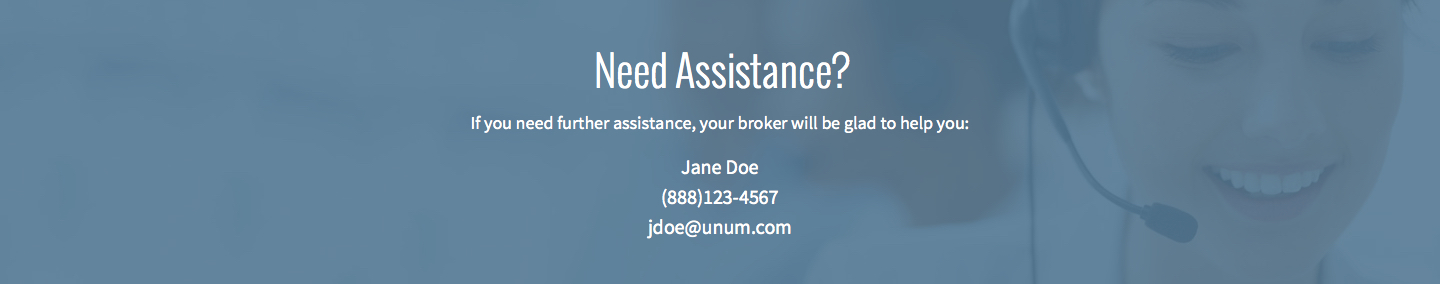
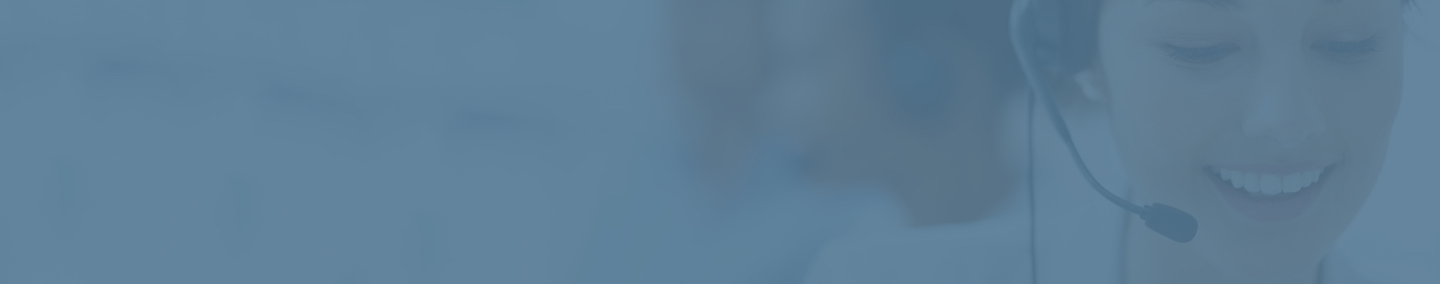
Changes second page

diff --git a/app/scss/_options.scss b/app/scss/_options.scss
@@ -1,6 +1,6 @@
 .options {
 	background: url('../img/options_mobile.jpg') no-repeat $steel-blue;
-	backgroun-size:cover;
+	background-size:cover;
 	color:#fff;
 	padding:2em 0 2.5em;
 	margin:2em 0;
@@ -8,6 +8,10 @@
 
 	h2, h3 {
 		color: #fff;
+	}
+
+	@media (min-width:680px) {
+		background: url('../img/options_desktop.jpg') no-repeat; 
 	}
 }
 
@@ -47,6 +51,32 @@
 		line-height: 1;
 		padding: 3.3em 0px 0px;
 		width: 33%;
+	}
+
+	@media (min-width: 680px) {
+		display: -ms-flexbox;
+    	display: -webkit-flex;
+    	display: flex;
+	    -webkit-flex-direction: row;
+	    -ms-flex-direction: row;
+	    flex-direction: row;
+	    -webkit-flex-wrap: nowrap;
+	    -ms-flex-wrap: nowrap;
+	    flex-wrap: nowrap;
+	    -webkit-justify-content: center;
+	    -ms-flex-pack: center;
+	    justify-content: center;
+	    -webkit-align-content: center;
+	    -ms-flex-line-pack: center;
+	    align-content: center;
+	    -webkit-align-items: flex-start;
+	    -ms-flex-align: start;
+	    align-items: flex-start;
+
+	    li {
+	    	padding:3.3em 1em 0;
+	    	width:auto;
+	    }
 	}
 }
 

diff --git a/app/scss/_assistance.scss b/app/scss/_assistance.scss
@@ -1,10 +1,11 @@
 .assistance {
 	background: url('../img/assistance_mobile.jpg') no-repeat;
+	background-size:cover;
 	color: #fff;
-	padding:2em 0;
+	padding:2.4em 0;
 	text-align:center;
 
-	h1 {
+	h2 {
 		color: #fff;
 		margin-bottom:.8rem;
 	}
@@ -21,5 +22,10 @@
 		li {
 			margin:0 0 .4rem;
 		}
+	}
+
+	@media (min-width:680px) {
+		//background-image: url('../img/assistance_desktop.jpg');
+		background: url('../img/assistance_desktop.jpg') no-repeat;
 	}
 }

diff --git a/app/second.html b/app/second.html
@@ -136,6 +136,14 @@ j=d.createElement(s),dl=l!='dataLayer'?'&l='+l:'';j.async=true;j.src=
 			</section>
 		</div>
 		<div class="row">
+			<section class="survey-results">
+				<div class="contain">
+					<h2>98% of employees agree:</h2>
+					<h3>It's important to have a benefits counseling session annually.</h3>
+				</div>
+			</section>
+		</div>
+		<div class="row">
 			<section class="assistance">
 				<div class="contain">
 					<h2>Need Assistance?</h2>

diff --git a/app/scss/_callout.scss b/app/scss/_callout.scss
@@ -16,7 +16,7 @@
 
 	@media (min-width:680px) {
 		background: rgba($steel-blue, .6);
-		width: 420px;
+		width: 450px;
 		float:left;
 		margin:-300px 0 0 1em;
 		text-align:left;
@@ -43,9 +43,10 @@
 		color: $steel-blue;
 		cursor: pointer;
 		display: inline-block;
+		font-size:1.125em;
 		font-weight:400;
 		overflow: hidden;
-		padding: 1.125em 1.625em;
+		padding: 1rem 1.125rem;
 		text-decoration: none;
 		transition: padding 0.5s;
 

diff --git a/app/scss/_survey-results.scss b/app/scss/_survey-results.scss
@@ -1,0 +1,16 @@
+.survey-results {
+	background: url('../img/employeestat.svg') no-repeat center 2em #C7CCCF;
+	color: $steel-blue;
+	padding:12em 0 2em;
+	text-align:center;
+
+	h2 {
+		color: $steel-blue;
+		margin:0;
+	}
+
+	h3 {
+		font-size:2em;
+		margin:.25em 0 0;
+	}
+}

diff --git a/app/scss/main.scss b/app/scss/main.scss
@@ -8,6 +8,7 @@
 @import 'callout';
 @import 'learn';
 @import 'assistance';
+@import 'survey-results';
 @import 'footer';
 @import 'header';
 @import 'requirements';

diff --git a/app/scss/_general.scss b/app/scss/_general.scss
@@ -29,7 +29,7 @@ h1 {
 
 h2 {
   color: $leaf;
-  font-size:2.4em;
+  font-size:2.6em;
   margin-bottom:1rem;
 }
 
